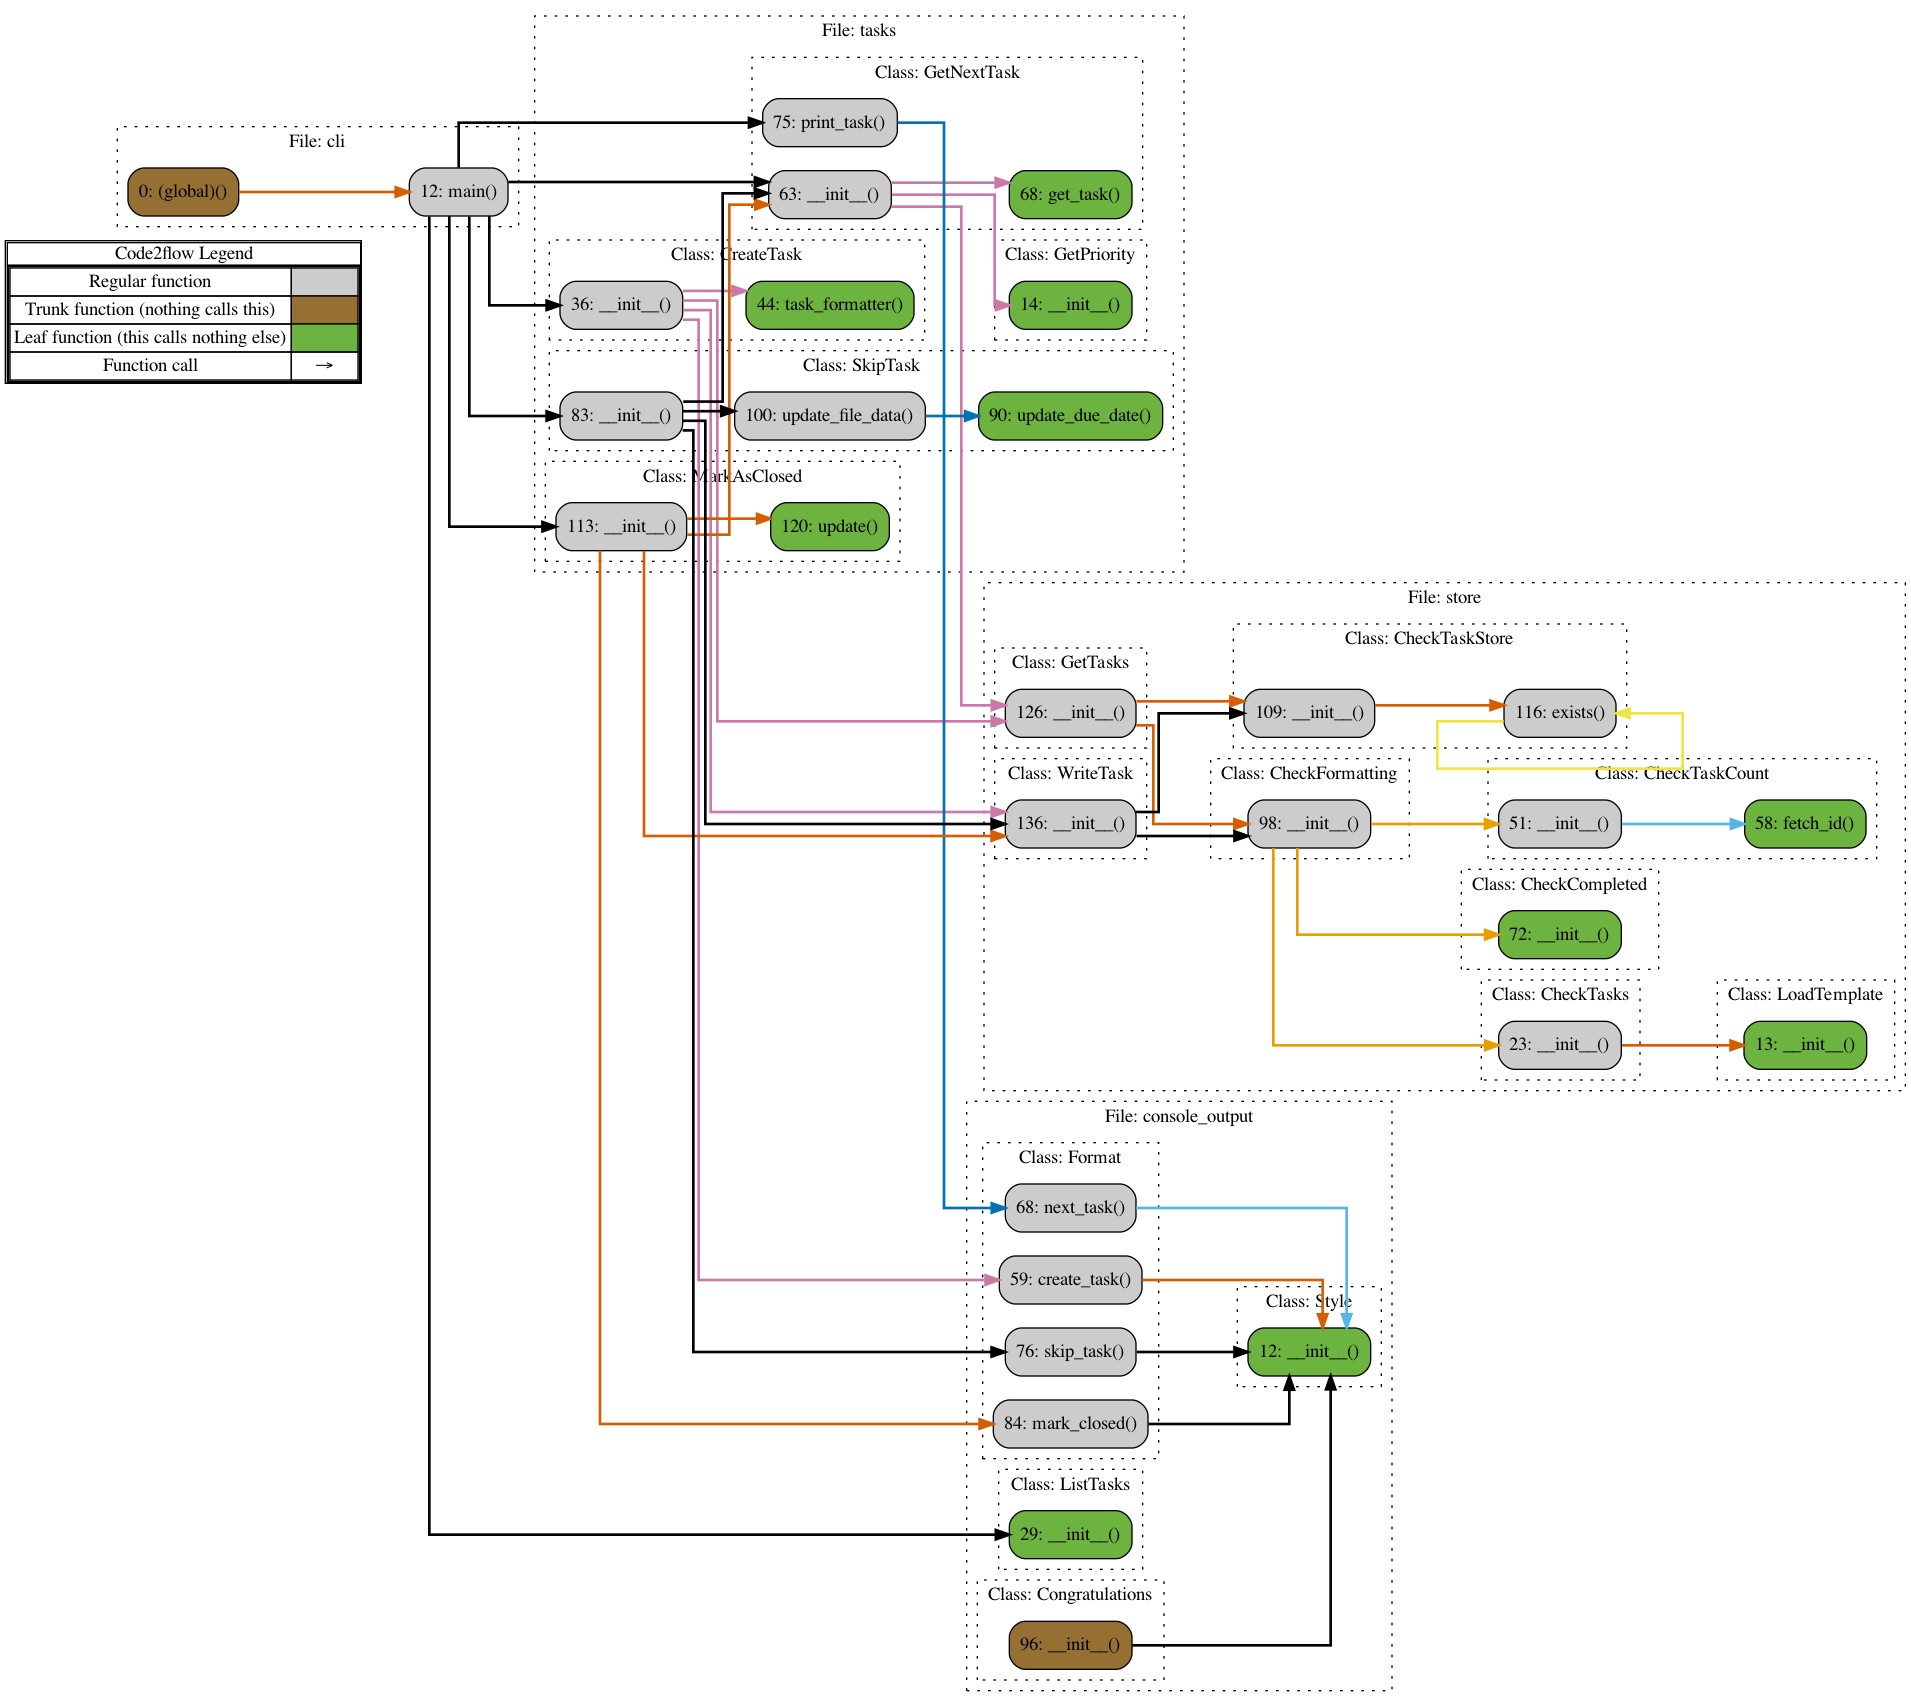
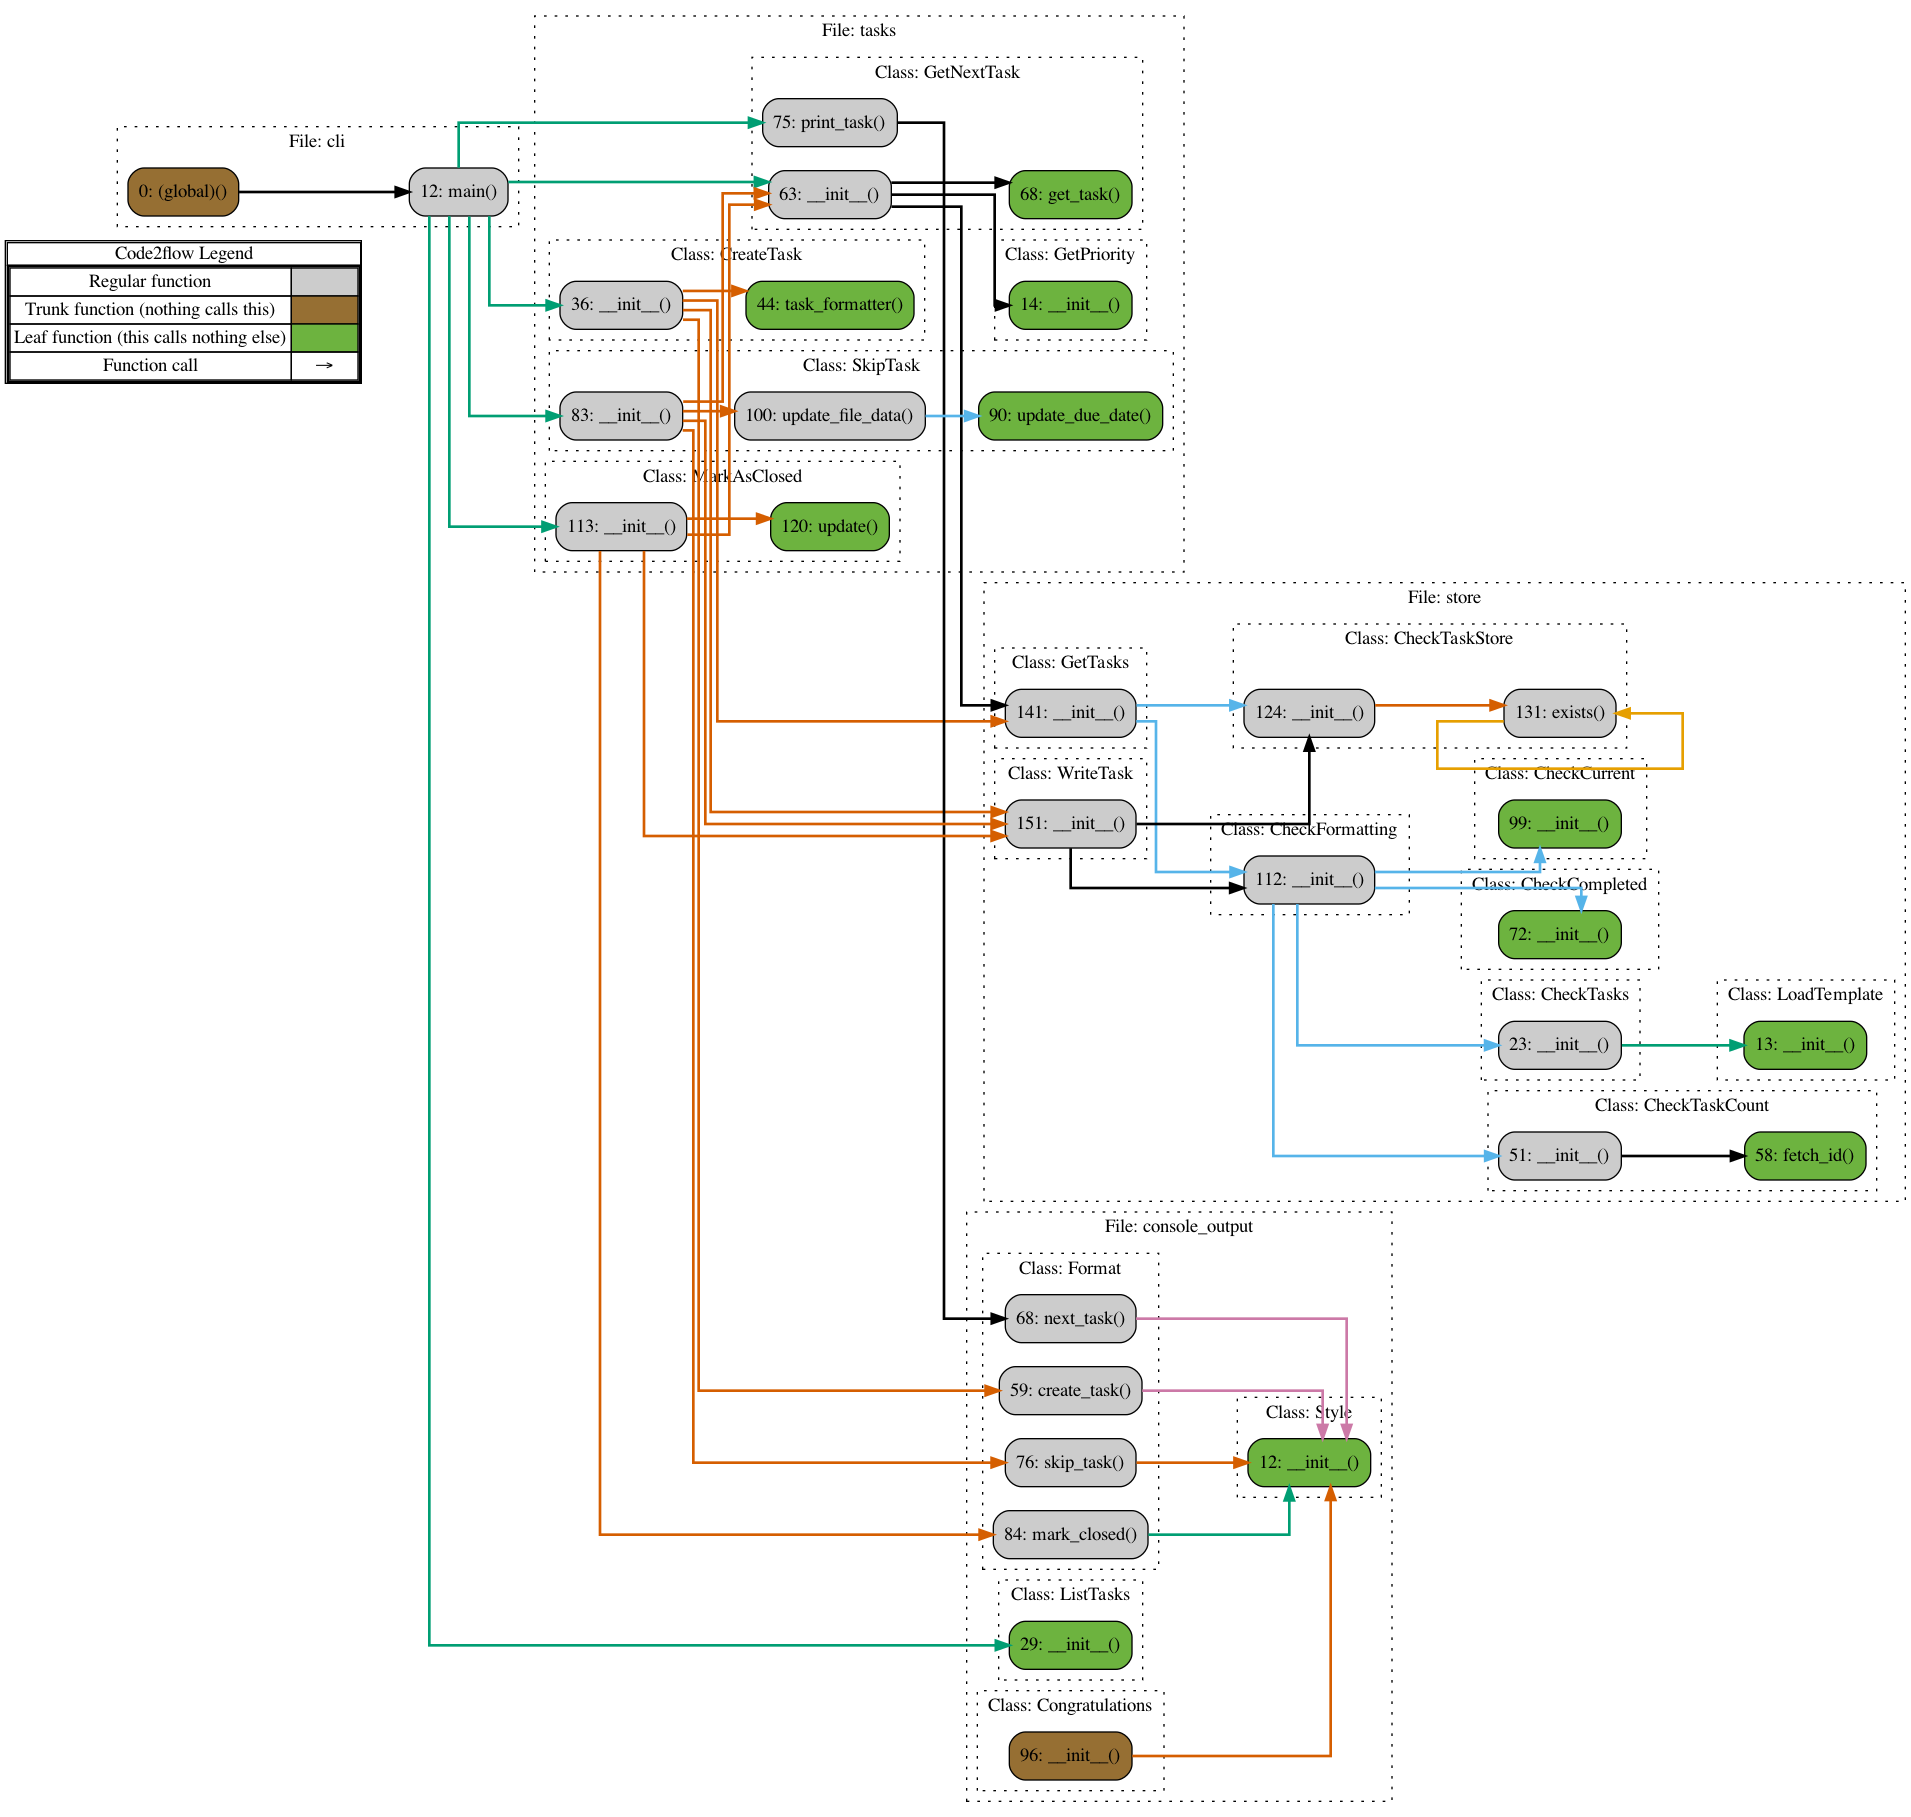
FUNC: Add a current key to task file

Changed region(s): [[0.0, 0.0, 0.988, 0.9936]]

diff --git a/next_task/services/store.py b/next_task/services/store.py
@@ -86,10 +86,24 @@ class CheckCompleted:
             self.data["completed"] = {}
             self.data["completed"]["tasks"] = completed
 
+        # Legacy compatability, ensures pre-0.3.8 task files are formatted
         if "completed_tasks" in self.data:
             self.data["completed"] = {}
             self.data["completed"]["tasks"] = self.data["completed_tasks"]
             self.data.pop("completed_tasks")
+
+
+class CheckCurrent:
+    """Ensure that there is a current key in the file."""
+
+    def __init__(self, data):
+        """Instansiate the class."""
+        self.data = data
+        if "current" not in self.data:
+            self.data["current"] = {}
+
+        if "task" not in self.data:
+            self.data["current"]["task"] = {}
 
 
 class CheckFormatting:
@@ -101,6 +115,7 @@ class CheckFormatting:
         self.data = CheckTasks(self.data).data
         self.data = CheckCompleted(self.data).data
         self.data = CheckTaskCount(self.data).data
+        self.data = CheckCurrent(self.data).data
 
 
 class CheckTaskStore:

diff --git a/tests/services/test_store.py b/tests/services/test_store.py
@@ -131,3 +131,14 @@ class TestCheckCompleted:
             file_data = json.load(file)
         test = store.CheckCompleted(file_data).data
         assert len(test["completed"]["tasks"]) == 2
+
+
+class TestCheckCurrent:
+    """Test the check current key in source data."""
+
+    def test_when_checked_pre_0_3_0_files_are_compatable(self) -> None:
+        """R-BICEP: Right."""
+        with open("tests/data_mocks/pre_0.3.0/.tasks.json", "r") as file:
+            file_data = json.load(file)
+        test = store.CheckCurrent(file_data).data
+        assert test["current"] == {"task": {}}
